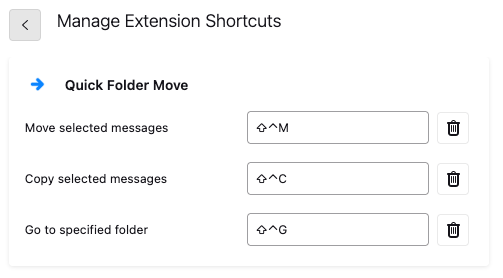
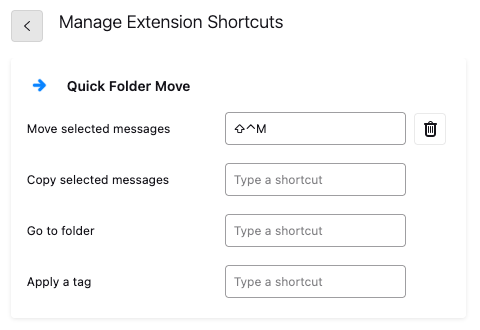
fix: The neverending saga on keyboard shortcuts

diff --git a/src/onboarding/changes-new-shortcuts.html b/src/onboarding/changes-new-shortcuts.html
@@ -21,14 +21,17 @@
             wrong action to be executed.
           </p>
           <p>
-            Here are the currently assigned shortcuts, including any you have customized:
+            By default, I've now gone with just one shortcut assigned by default, allowing you to
+            customize them to your needs instead. Note you can use the move shortcut and then
+            the left/right arrow keys to adjust the action. Here are the currently assigned
+            shortcuts, including any you have customized:
           </p>
           <p>
             <ul id="shortcut-list">
             </ul>
           </p>
           <p>
-            You can change these shortcuts in
+            You can change these shortcuts or assign any that are unassigned in
             <a href="https://support.mozilla.org/en-US/kb/manage-extension-shortcuts-firefox" target="_blank">the shortcut manager</a>,
             or temporarily go back to the legacy shortcuts in
             <a id="openOptions" href="about:addons">the add-on's preferences</a>.
@@ -58,8 +61,8 @@
             This is also where you can help improve future versions of the add-on.
           </p>
           <p>
-            Are you enjoying Quick Folder Move? Come to realize how much you depend on this add-on?
-            I'd appreciate your support for continued development of this add-on.
+            Are you enjoying Quick Folder Move? Do you appreciate all the effort put into these new features?
+            I'd appreciate your support for more features in the future.
           </p>
           <p class="donatebutton">
             <a class="button" href="https://paypal.me/kewisch/10eur" target="_blank">Send me a token of appreciation ❤</a>

diff --git a/src/onboarding/onboarding.html b/src/onboarding/onboarding.html
@@ -46,18 +46,15 @@
           <img src="images/shortcuts.png" alt="Managing shortcuts in the add-ons manager" />
           <p>
             Navigating with the keyboard is not confined to the popup. Ideally, you don't want to
-            leave your keyboard when filing messages. These keys will open the popup with an action
-            pre-selected.
+            leave your keyboard when filing messages.
+          </p>
+          <p>
+            As available keyboard shortcuts in Thunderbird are scarce, we'll start out with just one
+            shortcut to take action on email:
           </p>
             <ul>
-              <li class="platform-mac"><b>Control+Shift+M</b>: Move the selected email message.</li>
-              <li class="platform-default"><b>Ctrl+Alt+M</b>: Move the selected email message.</li>
-              <li class="platform-mac"><b>Control+Shift+C</b>: Copy the selected email message.</li>
-              <li class="platform-default"><b>Ctrl+Alt+C</b>: Copy the selected email message.</li>
-              <li class="platform-mac"><b>Control+Shift+G</b>: Go to a folder.</li>
-              <li class="platform-default"><b>Ctrl+Alt+G</b>: Go to a folder.</li>
-              <li class="platform-mac"><b>Control+Shift+G</b>: Tag a message.</li>
-              <li class="platform-default"><b>Ctrl+Alt+G</b>: Tag a message.</li>
+              <li class="platform-mac"><b>Control+Shift+M</b>: Open the popup to move the selected email message.</li>
+              <li class="platform-default"><b>Ctrl+Shift+N</b>: Open the popup to move the selected email message.</li>
             </ul>
           </p>
           <p class="clear">

diff --git a/src/onboarding/changes.html b/src/onboarding/changes.html
@@ -60,16 +60,16 @@
             The new technology restricts available keyboard shortcuts to prevent unexpected
             command changes. This means we'll bid farewell to Shift+M, welcoming
             <span class="platform-mac">Control+Shift+M</span>
-            <span class="platform-default">Ctrl+Alt+M</span>
-            for 'move' instead.
+            <span class="platform-default">Ctrl+Shift+N</span> for
+            'move' instead <span class="platform-default">(N, not M)</span>.
           </p>
           <p>
             Other actions such as 'copy' and 'goto' no longer have keyboard shortcuts defined by
             default. You can use the above mentioned keyboard shortcut and then use the left and
-            right arrow keys to select an action, or, assign your own.
+            right arrow keys to select a different action, or, assign your own.
           </p>
           <p>
-            To add or adjust the keyboard shortcuts, use
+            To assign or adjust keyboard shortcuts, use
             <a href="https://support.mozilla.org/en-US/kb/manage-extension-shortcuts-firefox" target="_blank">the shortcut manager</a>
             in Thunderbird. This
             version also still allows forcing legacy shortcuts in

diff --git a/src/onboarding/onboarding.js b/src/onboarding/onboarding.js
@@ -40,7 +40,7 @@ async function load() {
       let item = shortcutList.appendChild(document.createElement("li"));
       let shortcutText = item.appendChild(document.createElement("b"));
       shortcutText.textContent = translateShortcut(command.shortcut) || "No shortcut assigned";
-      item.appendChild(document.createTextNode(` to ${command.description.toLowerCase()}`));
+      item.appendChild(document.createTextNode(`: ${command.description}`));
     }
   }
 }
